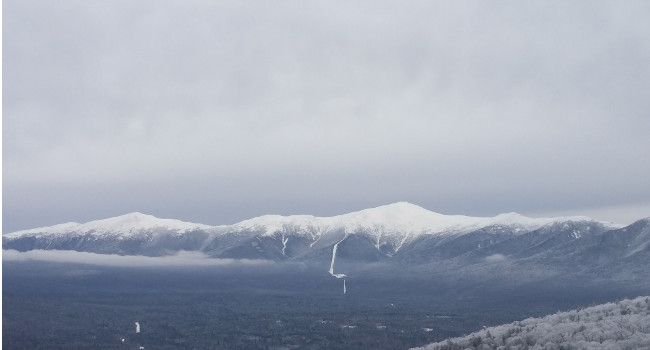
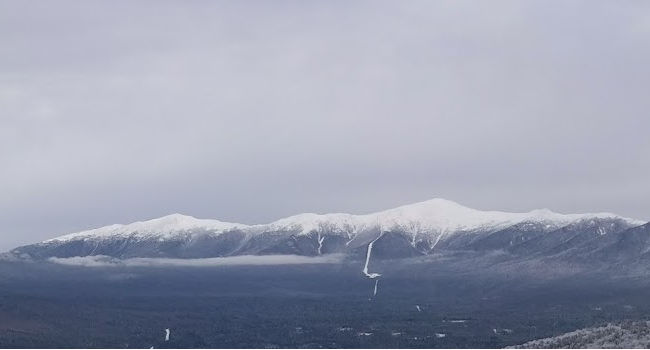
fixed 404 on first github link, and resized several thumbnails for performance

diff --git a/index.html b/index.html
@@ -199,16 +199,16 @@
     <div class="container-fluid">
       <div class="row no-gutter">
         <div class="col-lg-4 col-sm-6">
-          <a href="https://github.com/JasonD94/College-Public" class="portfolio-box">
-            <!-- Thumbnail URL: https://www.uml.edu/Images/About-UC-Opt_tcm18-191308.jpg -->
+          <a href="https://github.com/oplS16projects/Racket-Weather" class="portfolio-box">
+            <!-- Thumbnail URL: http://www.gannett-cdn.com/-mm-/3526533239800dac0c978150377d099025f1e52c/c=52-700-4303-3102&r=x1683&c=3200x1680/local/-/media/USATODAY/None/2014/10/03/1412368123000-Mesostorm-Lightning.jpg -->
             <img src="img/portfolio/thumbnails/1.jpg" class="img-responsive" alt="">
             <div class="portfolio-box-caption">
               <div class="portfolio-box-caption-content">
                 <div class="project-category text-faded">
-                  College Public
+                  Racket Weather
                 </div>
                 <div class="project-name">
-                  Undergraduate course work at UMass Lowell. Open Source & MIT Licensed.
+                  OPL Project. Visualizations in Racket using data from the OpenWeatherMap API.
                 </div>
               </div>
             </div>
